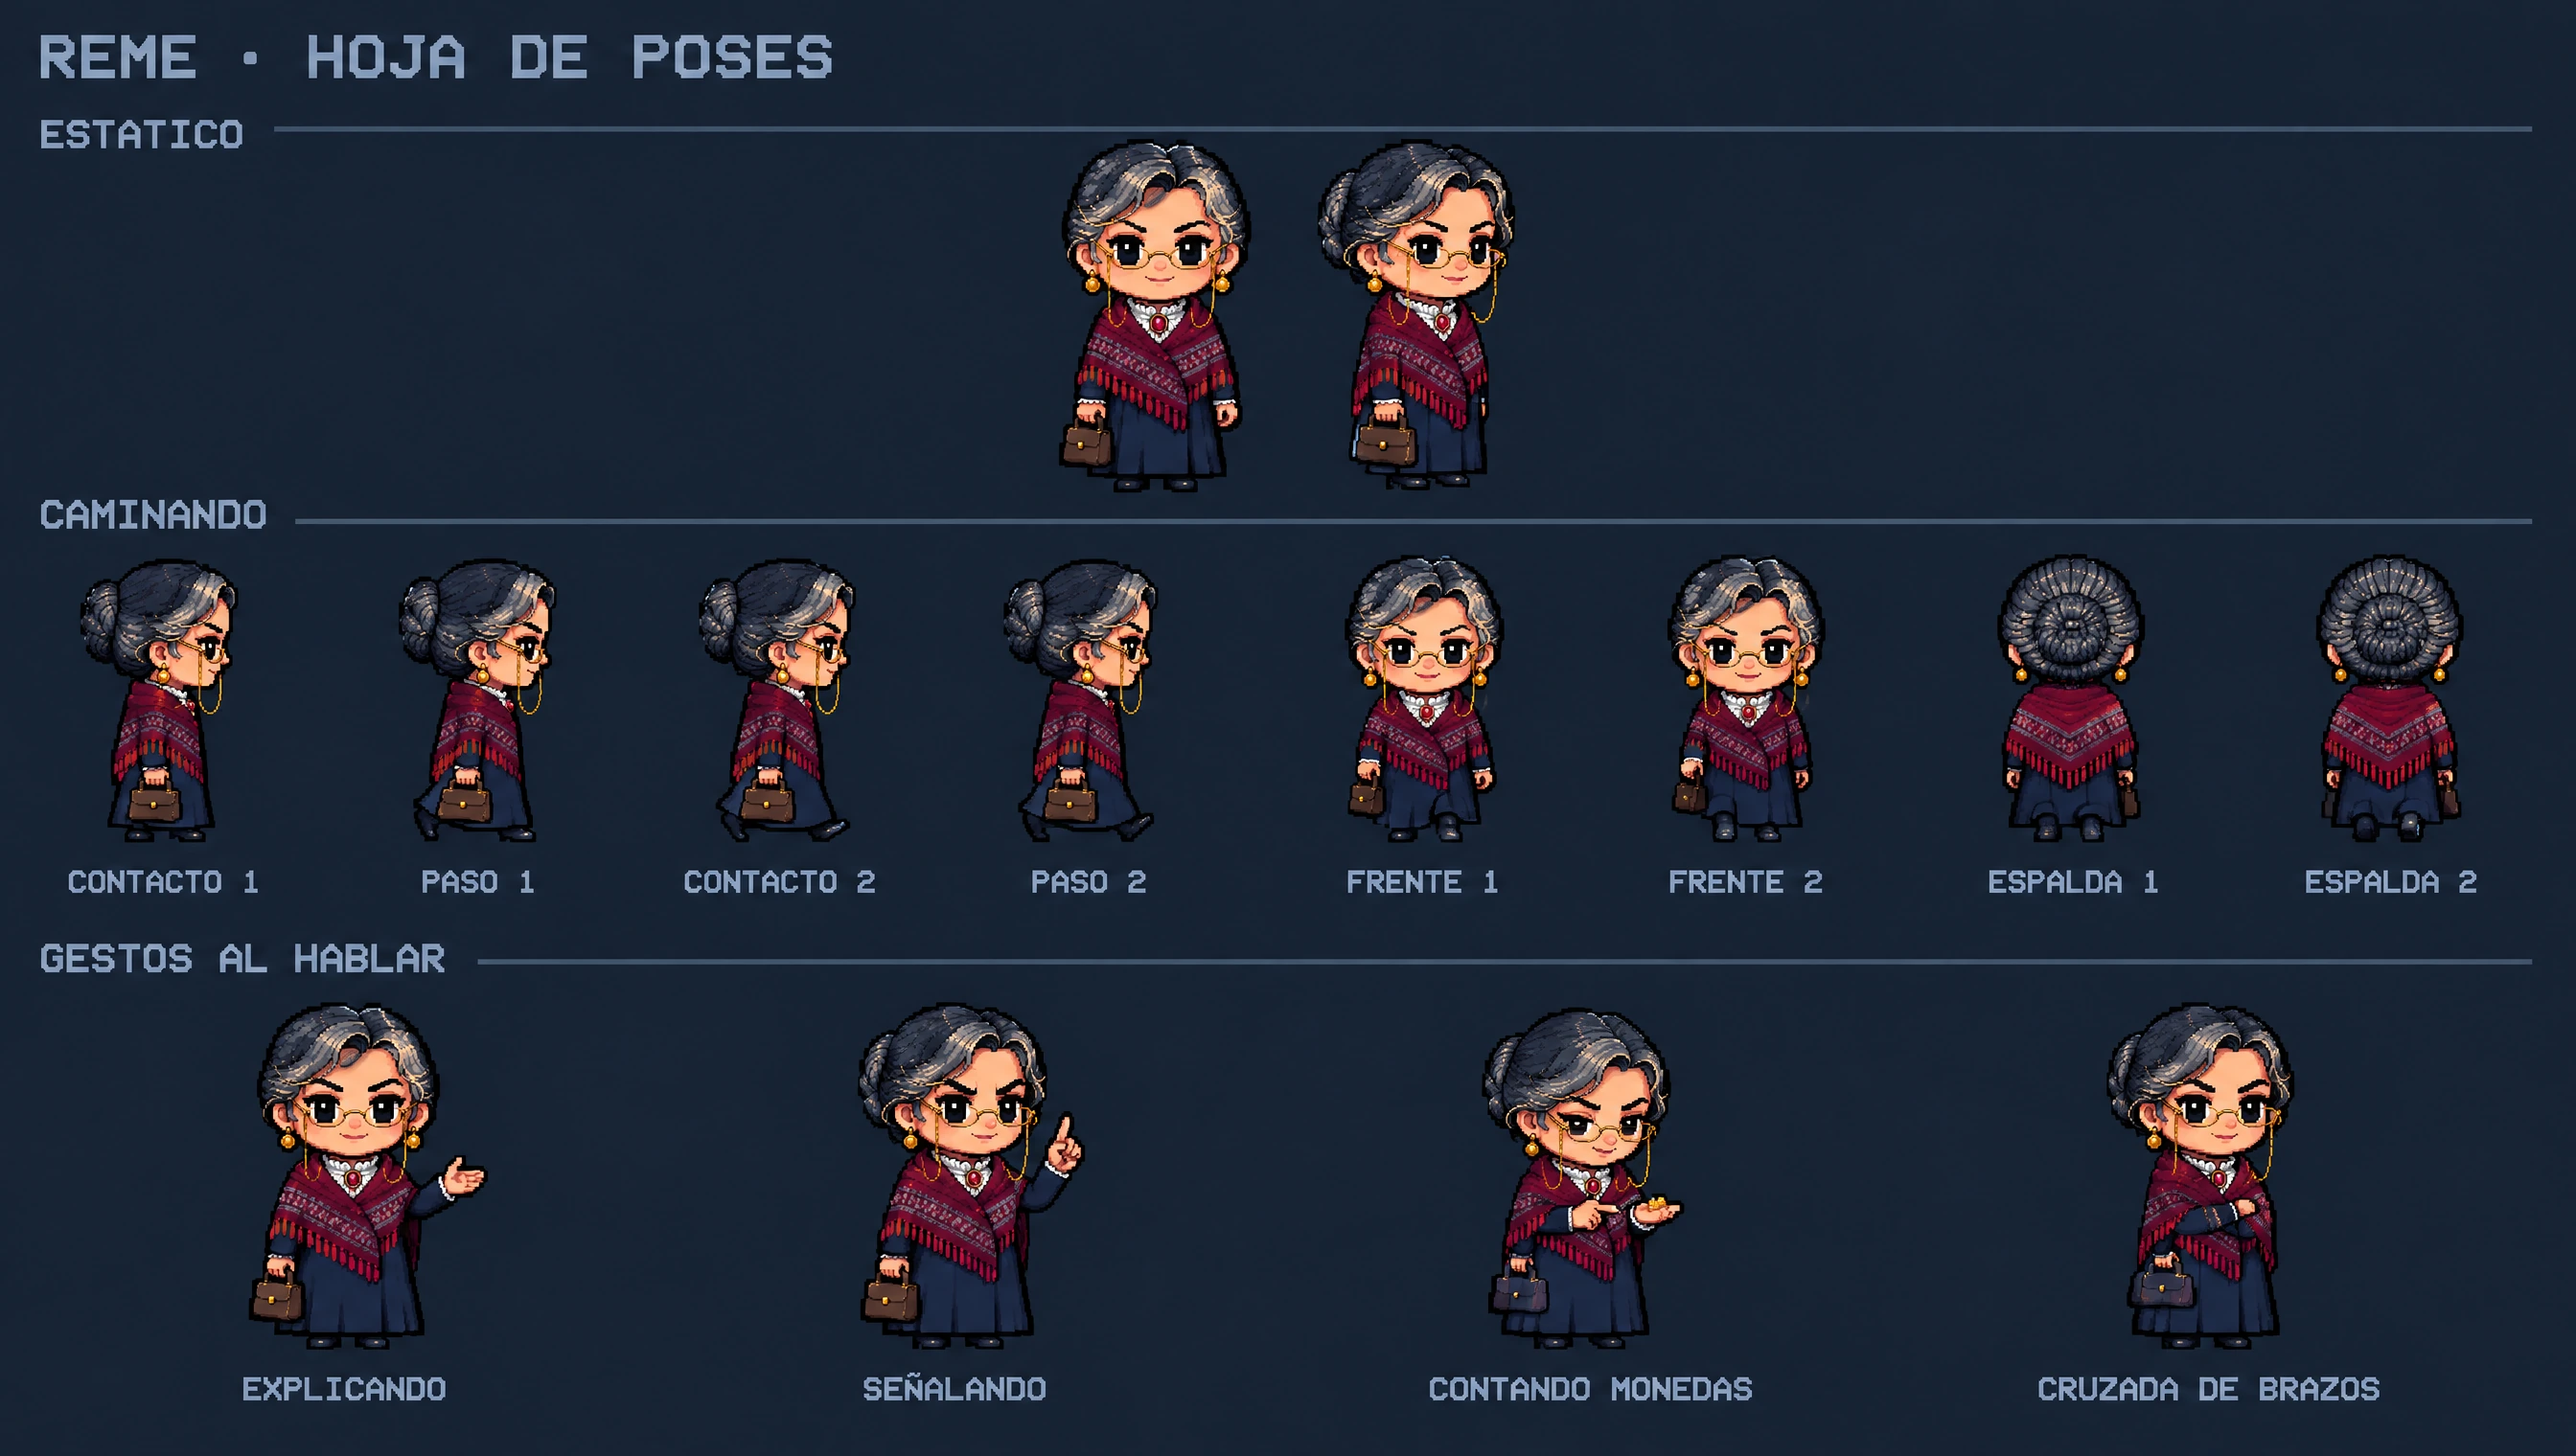
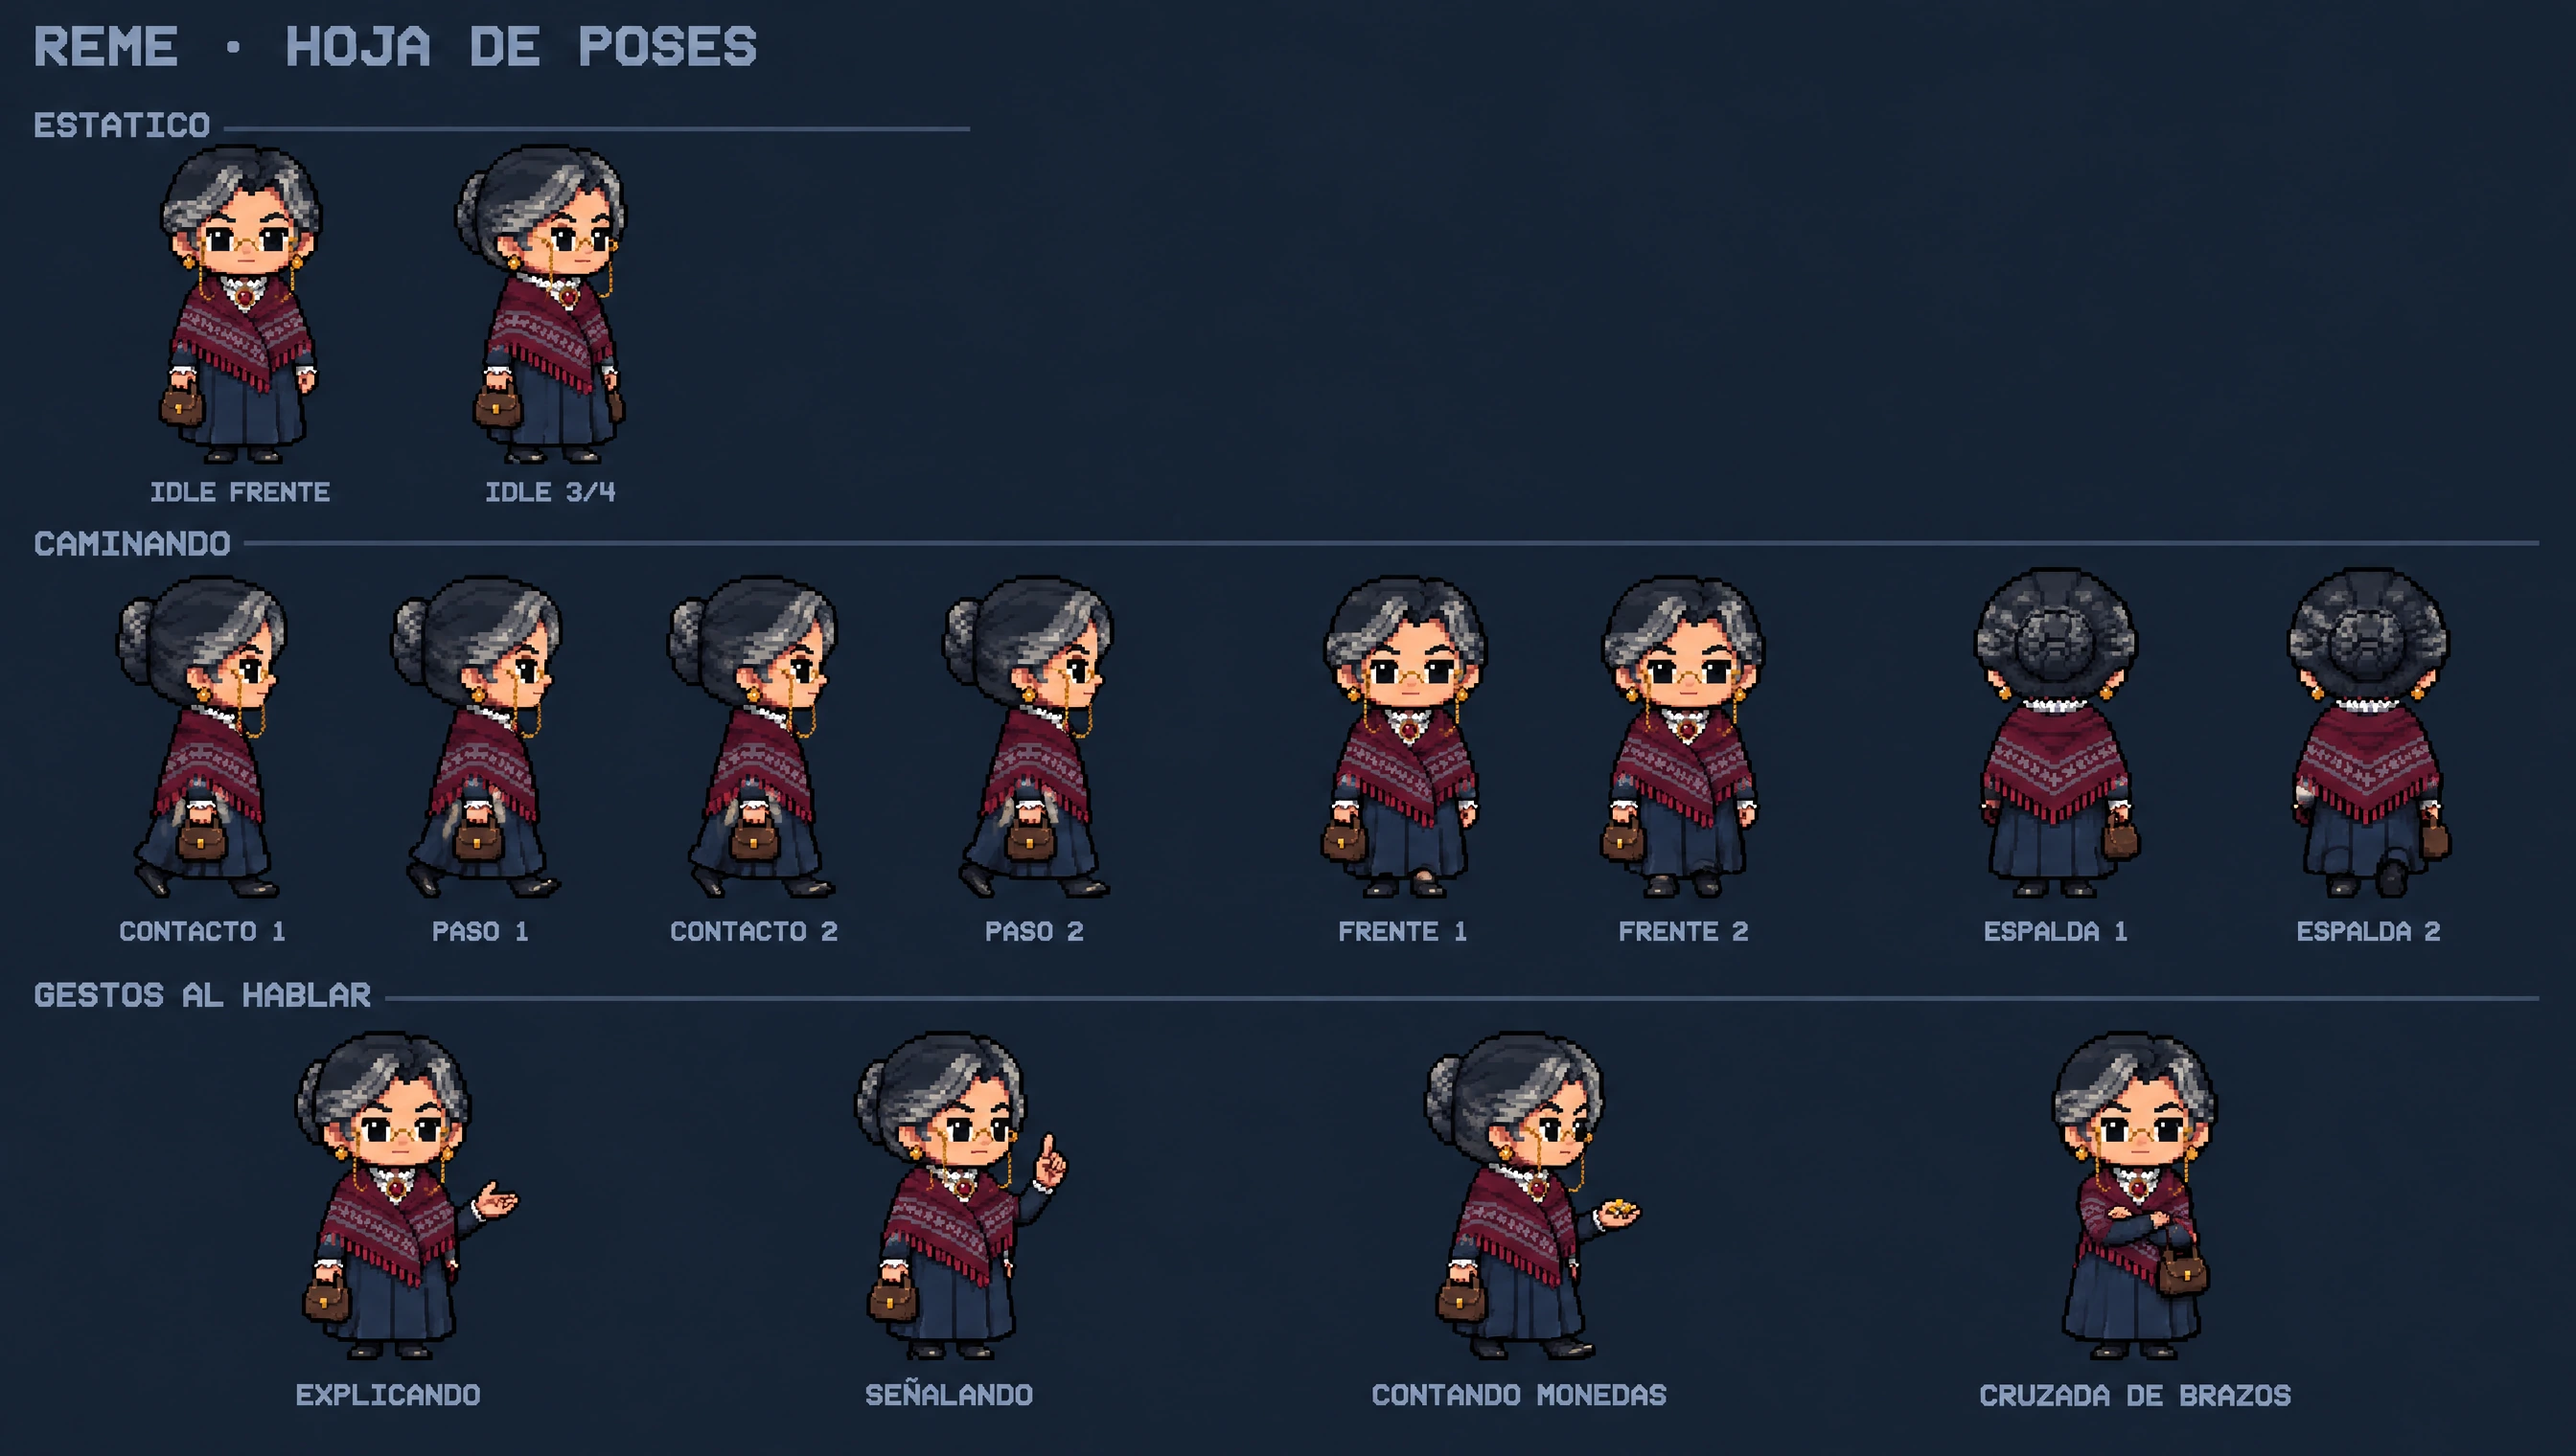
docs(arte): F0-60 rehace las poses de Reme a partir de su hoja de modelo
Las poses se generan con el modelo como única referencia para mantener el
mismo diseño y tamaño de píxel. El documento 12 fija el orden de producción
para todos los personajes.

Changed region(s): [[0.0, 0.0, 0.9688, 0.9895]]

diff --git a/studio/docs/12-direccion-de-arte.md b/studio/docs/12-direccion-de-arte.md
@@ -132,6 +132,8 @@ El juego es **horizontal (landscape)**. Catorce imágenes en `studio/assets-ref/
 | **Expresiones** | **Estilo detallado** como los retratos de diálogo. Seis, **iguales para todos**: la **por defecto** según su personalidad, feliz, triste (llorando), enojo, susto y cansancio (bostezando, no triste) |
 | **Poses** | **Chibi pixel art** de cuerpo entero: estático, caminando (ciclo de 4 fotogramas de lado, más de frente y de espalda) y gestos al hablar |
 
+**Orden de producción ✅:** de cada personaje se hace primero la **hoja de modelo**, que **define la estética completa** (rasgos, colores, tamaño de píxel y proporciones). Después se hace la hoja de **poses usando la de modelo como única referencia**, para que sea el mismo diseño. Las **expresiones** se hacen en estilo detallado a partir del retrato y del modelo. Una hoja no se da por buena hasta que el autor la aprueba.
+
 **Estética chibi de referencia ✅:** el sprite del ministro (`ministro-corregido.png`). Todos los personajes del modelo y las poses llevan esa estética: píxeles grandes y claramente visibles (cada personaje de unos 100 píxeles de alto), colores planos con 2 a 3 tonos por material, sombreado simple de bordes duros, contorno negro grueso, **sin textura fina, sin hebras de pelo y sin degradados**, ojos grandes y sencillos con un solo punto de brillo, boca pequeña, cabeza de cerca del 40 % de la altura y cuerpo compacto. El modelo y las poses de un mismo personaje tienen las mismas proporciones.
 
 **Expresiones ✅:** las seis tienen los mismos gestos para todos, sutiles y legibles. El **cansancio** es discreto (párpados pesados, ojeras leves, boca relajada), no exagerado y distinto de triste.
